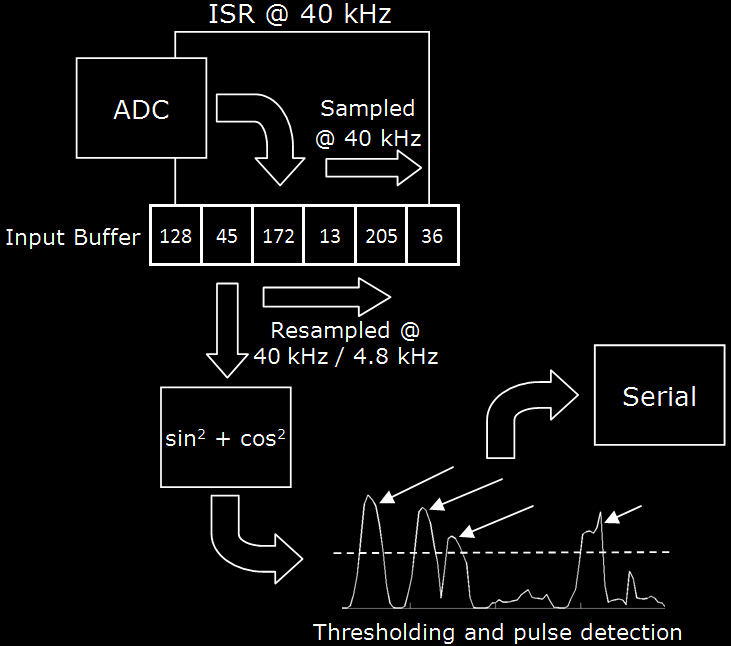
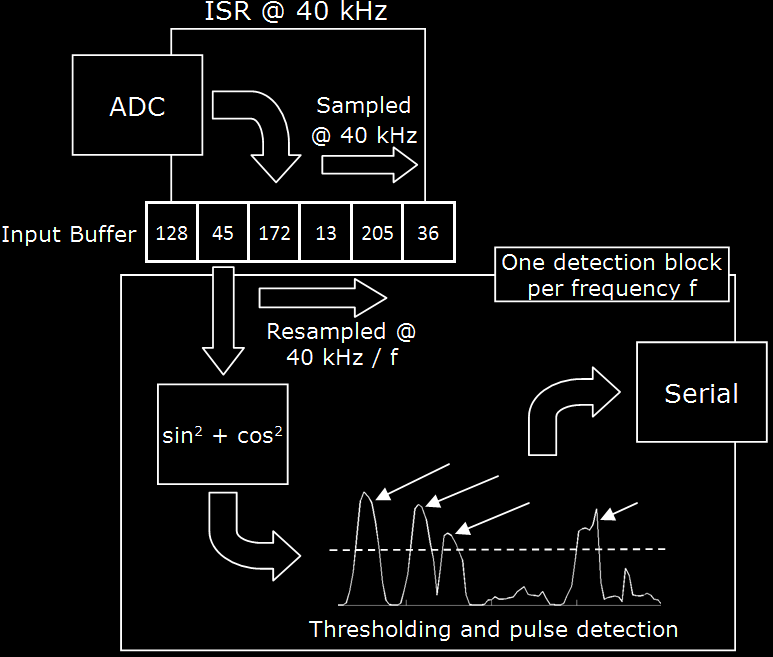
more report magic

diff --git a/report/report.html b/report/report.html
@@ -205,19 +205,27 @@ The hardware for the acoustic modem is relatively simple. It can be broken into 
 <h3 id="software">Software</h3>
 <h4 id="transmit">Transmit</h4>
 <center><div class="main-photo-largest">
-	<img src="software_transmit.png" alt="" width="630"/>
+	<a class="image" href="software_transmit.png" target="_BLANK"><img src="software_transmit.png" alt="" width="630"/></a>
 	<p class="caption">Software Transmit Sequence</p>
 </div></center>
 <p>The software transmit system is centered around the serial Rx code in the main loop and the waveform lookup in the ISR. The serial Rx code in the main loop is simple: if a serial byte exists in the serial receive buffer, the byte is placed in one of the output channels, scheduled in a round-robin fashion. These channels each have a state-machine status associated with it. When there is no data on a channel, its status is <span class="code">IDLE</span>. Once the serial Rx code places a byte in a channel (only placing the data in an <span class="code">IDLE</span> channel), it sets the status to <span class="code">START_BIT</span>, indicating to the ISR that the channel is ready to transmit the start bit. 
 </p>
-<p>The main ISR runs off of timer 1 at 40 kHz (500 cycles @ 20MHz clock); timer 1 also runs a secondary ISR 20 cycles beforehand to put the CPU to sleep in order to ensure consistent timing for the main ISR. The ISR executes the waveform lookup and generation immediately after entry in order to avoid any variable-length instructions that could cause inconsistent timing.<span class="aside"><span class="title">Why frequency tables?</span><span class="body">Previously in class, we generated sinusoids through Direct Digital Synthesis (DDS) through the PWM port. For this project, we significantly simplified our output scheme by utilizing a custom sine table which we placed in the AVR's flash memory. Since there are a limited number of transmit frequencies, we can use Matlab to precompute 64 samples for every possible combination of frequencies. A lookup into flash memory, while slower than RAM access, is much faster than full DDS. The only disadvantage with this scheme is that we must recompute the table every time we wish to change the transmit frequencies or relative amplitudes.</span></span> To determine which waveform to use, the ISR examines the states of all the channels once every 64 iterations. The states indicate whether the state is <span class="code">IDLE</span>, ready to trasmit the <span class="code">START_BIT</span> (represented by 1<sub>S</sub> in the figure above), transmitting the Nth bit of the channel (starting with the MSB at 0), or trasmitting the <span class="code">STOP_BIT</span> (represented by 0<sub>S</sub> in the figure above). The ISR combines the appropriate bit of each channel into a 3-bit number with the MSB indicating the presence of 7.2 kHz, the middle bit indicating the presence of 6.0 kHz and the LSB indicating the presence of 4.8 kHz. This 3-bit number can now be used as an offset into our 2D frequency table. The first dimension of this table is the 3-bit number which indicates the combination of frequencies we wish to generate. The second dimension is a 64-element array corresponding to the 64 samples in the waveform, with each value directly correlating with a voltage range between 0V - 5V. After determining the correct waveform, the ISR increments the status of all the channels and spends the next 64 iterations outputting the appropriate samples to our DAC on PORT C. The DAC is easy to use: we simply drive the write-enable pin low, load our output onto the DAC's input pins, and drive the write-enabled pin high. The DAC takes care of the rest.
+<p>The main ISR runs off of timer 1 at 40 kHz (500 cycles @ 20MHz clock); timer 1 also runs a secondary ISR 20 cycles beforehand to put the CPU to sleep in order to ensure consistent timing for the main ISR. The ISR executes the waveform lookup and generation immediately after entry in order to avoid any variable-length instructions that could cause inconsistent timing.<span class="aside"><span class="title">Why frequency tables?</span><span class="body">Previously in class, we generated sinusoids through Direct Digital Synthesis (DDS) through the PWM port. For this project, we significantly simplified our output scheme by utilizing a custom sine table which we placed in the AVR's flash memory. Since there are a limited number of transmit frequencies, we can use Matlab to precompute 64 samples for every possible combination of frequencies. A lookup into flash memory, while slower than RAM access, is much faster than full DDS. The only disadvantage with this scheme is that we must recompute the table every time we wish to change the transmit frequencies or relative amplitudes.</span></span> To determine which waveform to use, the ISR examines the states of all the channels once every 64 iterations. The states indicate whether the state is <span class="code">IDLE</span>, ready to trasmit the <span class="code">START_BIT</span> (represented by 1<sub>S</sub> in the figure above), transmitting the Nth bit of the channel (starting with the MSB at 0), or trasmitting the <span class="code">STOP_BIT</span> (represented by 0<sub>S</sub> in the figure above). The ISR combines the appropriate bit of each channel into a 3-bit number with the MSB indicating the presence of 7.2 kHz, the middle bit indicating the presence of 6.0 kHz and the LSB indicating the presence of 4.8 kHz. This 3-bit number can now be used as an offset into our precomputed 2D frequency table (see sidebar). The first dimension of this table is the 3-bit number which indicates the combination of frequencies we wish to generate. The second dimension is a 64-element array corresponding to the 64 samples in the waveform, with each value directly correlating with a voltage range between 0V - 5V. We manually scaled the amplitudes of the waveforms at generation time to compensate for the differences in the response magnitude of the microphone filter. After determining the correct waveform, the ISR increments the status of all the channels and spends the next 64 iterations outputting the appropriate samples to our DAC on PORT C. The DAC is easy to use: we simply drive the write-enable pin low, load our output onto the DAC's input pins, and drive the write-enabled pin high. The DAC takes care of the rest.
 </p>
 <h4 id="receive">Receive</h4>
 <center><div class="main-photo-large">
-	<img src="software_receive.png" alt="" width="510"/>
+	<a class="image" href="software_receive.png" target="_BLANK"><img src="software_receive.png" alt="" width="510"/></a>
 	<p class="caption">Software Receive Sequence</p>
 </div></center>
-<p>
+<p>To receive signals, the main ISR mentioned above plays a minimal role. Every time the ISR is executed (40kHz), it uses the on-board ADC to sample to voltage from the input circuitry and convert it to a signed <span class="code">int8_t</span> by subtracting an offset of 128. This sample is placed into a 64-byte global circular input buffer. 
+</p>
+<p>In the main loop, we run a detection block for every frequency of interest. Each frequency of interest has a <span class="code">struct</span> with the appropriate detection parameters; these parameters are generated at runtime based on the frequencies hard-coded into the program. Each detection block runs once for every iteration of the main loop. Each detection block uses the latest input data collected by the ISR. The detection block for frequency <i>f</i> resamples the data (i.e. advances in the input buffer at a different rate) with a frequency of 40 kHz / <i>f</i>. These resampling pointers are stored in a 6:10 fixed-point variable to prevent error accumulation. Four resampled data points are added to the accumulators for four different components offset in phase from each other by 45º. Using four components instead of one prevents phase differences during the resampling process from affecting the data. These four accumulators each store the sum of the past <i>n</i> resamples for their respective phase offset, where <i>n</i> is the number of resamples in one 'frame' (a frame is 64 samples at 40 kHz, the length of one bit). Every time we add a new resample, the oldest one is deleted to maintain our resampling window. From these four accumulators, we calculate the sums of squares of the two accumulators with a phase offset of 90º, i.e. <span class="code">(phase offset 0º)<sup>2</sup> + (phase offset 90º)<sup>2</sup></span> and <span class="code">(phase offset 45º)<sup>2</sup> + (phase offset 135º)<sup>2</sup></span>.
+</p>
+<center><div class="main-photo-large">
+	<a class="image" href="sample_raw_data.png" target="_BLANK"><img src="sample_raw_data.png" alt="" width="510"/></a>
+	<p class="caption">Sample raw data collected by the receive software<br/><i>The yellow signal line is a dump of raw data collected by the ADC<br/>The x's of a single color represent the value of an accumulator</i></p>
+</div></center>
+<p> These two sums of squares are then averaged to produce our final magnitude.
 </p>
 <h4 id="client">Client-Side</h4>
 <p>

diff --git a/report/main.css b/report/main.css
@@ -1118,6 +1118,9 @@ a:active {
 
 	}
 
+a.image, a.image:active, a.image:hover, a.image:visited {
+	border-bottom: none;
+}
 	
 
 /* 
